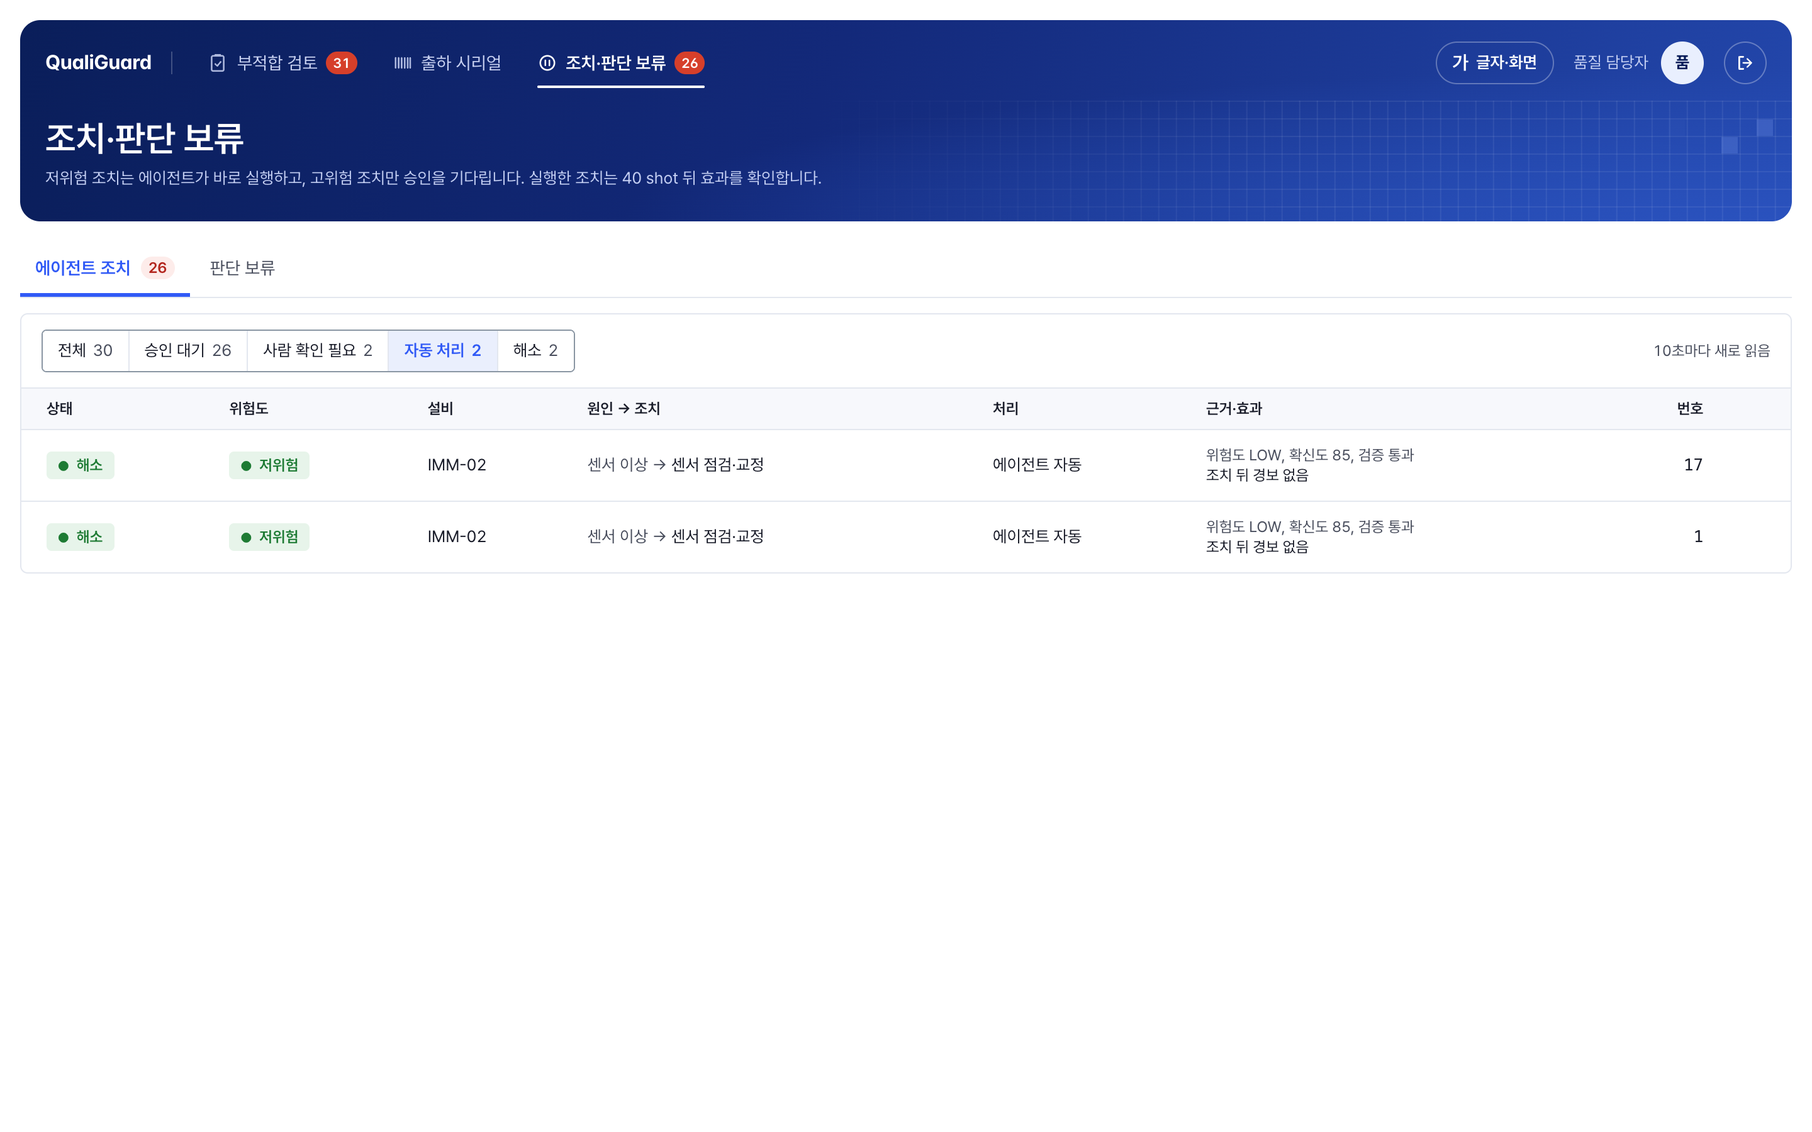
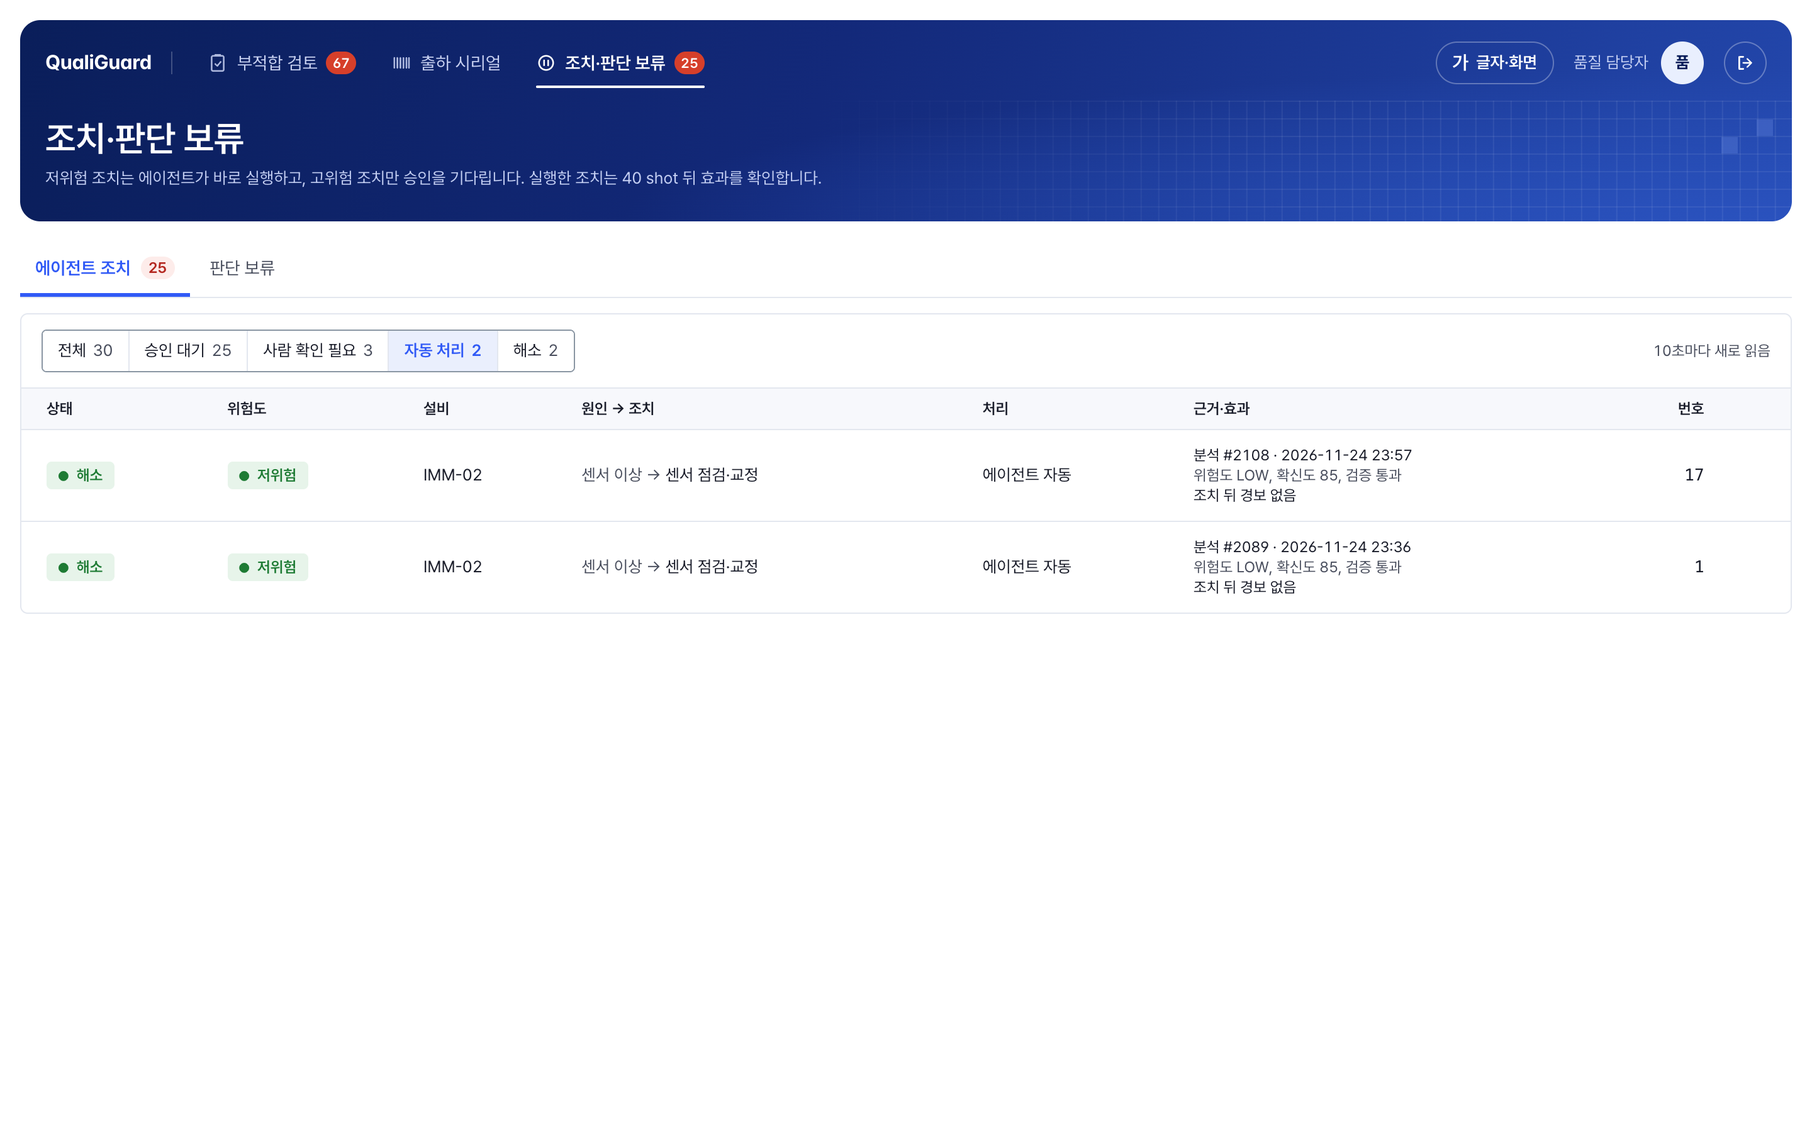
fix: 효과 없음 뒤 재분석 기준을 최근 shot 으로 + F3 재실행 결과 (캡처 4장) (#108)
* fix: 효과 없음 뒤 재분석 기준을 가장 최근에 들어온 shot 으로 (shot 번호 재시작)

F3 맥 재실행(11-25)에서 조치 19의 재분석 #2367 이 as_of_shot 2100(앞 실행의
MAX(shot_no))을 기준으로 해 조용한 옛 구간을 보고 OBSERVE → ESCALATED 로 끝났다.
#103 이 효과 확인에서 고친 것과 같은 문제.

- IncidentAnalyzer.prepareFollowUp: 재분석(excludedCause)이면 관찰 기준 시각 뒤
  shot 중 created_at 이 가장 늦은 것을 기준으로, 지난 shot 수도 시각으로 셈
- latestShot(MAX(shot_no)) 삭제
- 컨테이너 시험: 앞 실행 1~100, 새 실행 1~50 → 기준 shot 50, 40 shot 지남

Claude-Session: https://claude.ai/code/session_01SJdujeYsK7WznWMSwKKP1C

* docs(demo): F3 맥 재실행 — 승인 대기 묶기, ESCALATED 화면, 결과 요약

- main(#104·#107) + PR #105 로 재실행: 효과 없음 → 재분석 → 담당자 확인(ESCALATED) 루프, 같은 조치 묶기 확인
- 캡처 01~03 교체, 04-escalated.png 추가
- eval/overnight-1124/f3-rerun-1125.md: 단계별 관찰, 건수, 남은 한계(재분석 기준 shot 이 이전 실행 것 등)

* docs: F3 재실행 결과·캡처 4장, 문제 4(재분석 기준 shot) 기록

Claude-Session: https://claude.ai/code/session_01SJdujeYsK7WznWMSwKKP1C

---------

diff --git a/qms-app/src/main/java/com/qualiguard/qms/agent/IncidentAnalyzer.java b/qms-app/src/main/java/com/qualiguard/qms/agent/IncidentAnalyzer.java
@@ -331,20 +331,42 @@ public class IncidentAnalyzer {
         }
         String equipmentId = (String) parent.get("equipment_id");
         long baseShot = ((Number) parent.get("base_shot")).longValue();
-        long target = asOfShot != null ? asOfShot
-                : excludedCause != null ? latestShot(equipmentId) : baseShot + props.recheckShots();
-        if (target <= baseShot) {
-            throw new IllegalArgumentException("재확인 shot 은 관찰 기준 shot(" + baseShot + ")보다 뒤여야 합니다");
+        long target;
+        String asOf;
+        Long shotsSince = null;
+        if (asOfShot == null && excludedCause != null) {
+            // 조치 효과가 없을 때의 재분석: '지금' 시점 = 가장 최근에 들어온 shot.
+            // shot 번호는 시뮬레이터를 다시 돌리면 1부터 다시 시작하므로 MAX(shot_no) 를 쓰면 이전 실행의
+            // 큰 번호(이미 지난 구간)를 고르게 된다. 들어온 순서(created_at)로 고르고, 시각으로 앞뒤를 확인한다.
+            List<Map<String, Object>> latest = jdbc.queryForList("""
+                    SELECT TOP 1 shot_no, CONVERT(VARCHAR(33), shot_ts, 127) AS ts FROM dbo.process_shot
+                    WHERE equipment_id = ? AND shot_ts > CAST(? AS DATETIMEOFFSET(3))
+                    ORDER BY created_at DESC, shot_id DESC
+                    """, equipmentId, parent.get("base_ts"));
+            if (latest.isEmpty()) {
+                throw new IllegalStateException(equipmentId + " 의 관찰 기준 시각 뒤 shot 데이터가 아직 없습니다");
+            }
+            target = ((Number) latest.get(0).get("shot_no")).longValue();
+            asOf = (String) latest.get(0).get("ts");
+            shotsSince = jdbc.queryForObject("""
+                    SELECT COUNT_BIG(*) FROM dbo.process_shot
+                    WHERE equipment_id = ? AND shot_ts > CAST(? AS DATETIMEOFFSET(3)) AND shot_ts <= CAST(? AS DATETIMEOFFSET(3))
+                    """, Long.class, equipmentId, parent.get("base_ts"), asOf);
+        } else {
+            target = asOfShot != null ? asOfShot : baseShot + props.recheckShots();
+            if (target <= baseShot) {
+                throw new IllegalArgumentException("재확인 shot 은 관찰 기준 shot(" + baseShot + ")보다 뒤여야 합니다");
+            }
+            List<String> shotTs = jdbc.queryForList("""
+                    SELECT TOP 1 CONVERT(VARCHAR(33), shot_ts, 127) FROM dbo.process_shot
+                    WHERE equipment_id = ? AND shot_no = ? AND shot_ts > CAST(? AS DATETIMEOFFSET(3))
+                    ORDER BY shot_ts
+                    """, String.class, equipmentId, target, parent.get("base_ts"));
+            if (shotTs.isEmpty()) {
+                throw new IllegalStateException(equipmentId + " shot " + target + " 데이터가 아직 없습니다");
+            }
+            asOf = shotTs.get(0);
         }
-        List<String> shotTs = jdbc.queryForList("""
-                SELECT TOP 1 CONVERT(VARCHAR(33), shot_ts, 127) FROM dbo.process_shot
-                WHERE equipment_id = ? AND shot_no = ? AND shot_ts > CAST(? AS DATETIMEOFFSET(3))
-                ORDER BY shot_ts
-                """, String.class, equipmentId, target, parent.get("base_ts"));
-        if (shotTs.isEmpty()) {
-            throw new IllegalStateException(equipmentId + " shot " + target + " 데이터가 아직 없습니다");
-        }
-        String asOf = shotTs.get(0);
 
         String ids = (String) parent.get("anomaly_ids");
         List<String> anomalyIds = ids == null || ids.isBlank() ? List.of() : List.of(ids.split(","));
@@ -358,7 +380,7 @@ public class IncidentAnalyzer {
         Map<String, Object> info = new LinkedHashMap<>();
         info.put("observedAtShot", baseShot);
         info.put("currentShot", target);
-        info.put("shotsSinceObservation", target - baseShot);
+        info.put("shotsSinceObservation", shotsSince != null ? shotsSince : target - baseShot);
         info.put("recheckCount", depth + 1);
         if (excludedCause != null) {
             info.put("excludedCause", excludedCause);
@@ -366,12 +388,6 @@ public class IncidentAnalyzer {
         return new Job("RECHECK", equipmentId, (String) parent.get("seed_anomaly_id"),
                 (String) parent.get("seed_ts"), observedAlarms, anomalyIds, false, null, asOf, target, asOf,
                 parentAnalysisId, (String) parent.get("run_tag"), info);
-    }
-
-    private long latestShot(String equipmentId) {
-        Long max = jdbc.queryForObject("SELECT MAX(shot_no) FROM dbo.process_shot WHERE equipment_id = ?", Long.class,
-                equipmentId);
-        return max == null ? 0 : max;
     }
 
     /**

diff --git a/qms-app/src/test/java/com/qualiguard/qms/db/MssqlInitScriptsContainerTest.java b/qms-app/src/test/java/com/qualiguard/qms/db/MssqlInitScriptsContainerTest.java
@@ -616,6 +616,65 @@ class MssqlInitScriptsContainerTest {
         }
     }
 
+    @Test
+    void 효과_없음_뒤_재분석은_shot_번호가_아니라_가장_최근에_들어온_shot_을_기준으로_한다() throws Exception {
+        try (Connection c = connect(); Statement st = c.createStatement()) {
+            st.execute("""
+                    INSERT INTO dbo.equipment (equipment_id, line_id, equipment_name, model, product_name, install_date)
+                    VALUES ('IT-EQ-RT', 'LINE1', N'시험 설비', N'시험', N'시험', '2020-01-01');
+                    """);
+            try (PreparedStatement ps = c.prepareStatement("""
+                    INSERT INTO dbo.process_shot (message_id, line_id, equipment_id, shot_no, shot_ts, barrel_temp,
+                                                  inspection_result, created_at)
+                    VALUES (?, 'LINE1', 'IT-EQ-RT', ?, CAST(? AS DATETIMEOFFSET(3)), ?, 'OK', CAST(? AS DATETIMEOFFSET(3)))
+                    """)) {
+                for (int shot = 1; shot <= 100; shot++) {   // 앞 실행: 1~100 (번호가 더 큼)
+                    retryShot(ps, "it-rt-a-" + shot, shot, "2026-11-24T10:00:00+09:00", shot);
+                }
+                for (int shot = 1; shot <= 50; shot++) {    // 조치 뒤 새 실행: 번호가 다시 1부터
+                    retryShot(ps, "it-rt-b-" + shot, shot, "2026-11-24T11:00:00+09:00", shot);
+                }
+            }
+            st.execute("""
+                    INSERT INTO dbo.anomaly_event (anomaly_id, line_id, equipment_id, shot_no, detected_at, rule_code,
+                        rule_name, sensor_key, sensor_name, observed, message, evidence_json)
+                    VALUES ('it-rt-seed', 'LINE1', 'IT-EQ-RT', 10, '2026-11-24T11:00:10+09:00', 'XBAR', N'평균',
+                            'barrelTemp', N'실린더', 1, N'새 실행 경보', '{}')
+                    """);
+            int parent;
+            try (ResultSet rs = st.executeQuery("""
+                    INSERT INTO dbo.agent_analysis (equipment_id, seed_anomaly_id, anomaly_ids, decision, trigger_type,
+                                                    as_of, as_of_shot)
+                    OUTPUT INSERTED.analysis_id
+                    VALUES ('IT-EQ-RT', 'it-rt-seed', 'it-rt-seed', 'NCR_DRAFT', 'ALARM', '2026-11-24T11:00:10+09:00', 10)
+                    """)) {
+                rs.next();
+                parent = rs.getInt(1);
+            }
+            var jdbc = new JdbcTemplate(new SingleConnectionDataSource(c, true));
+            var analyzer = new IncidentAnalyzer(jdbc, JsonMapper.builder().build(), null,
+                    new com.qualiguard.qms.agent.AgentProperties(false, 5000, 100, 30, 60, 40, 3, 1), null, "test", null);
+
+            // 예전(MAX(shot_no) = 100)에는 앞 실행의 shot 100 을 찾다가 '데이터가 아직 없다'로 실패하거나 지난 구간을 봤다
+            IncidentAnalyzer.Job job = analyzer.prepareRetry(parent, "HEATER_DEGRADATION");
+            assertThat(job.asOfShot()).as("새 실행의 마지막 shot").isEqualTo(50L);
+            assertThat(job.asOf()).startsWith("2026-11-24T02:00:50");
+            assertThat(job.recheckInfo()).containsEntry("excludedCause", "HEATER_DEGRADATION")
+                    .containsEntry("shotsSinceObservation", 40L);
+        }
+    }
+
+    private static void retryShot(PreparedStatement ps, String id, int shot, String start, int sec) throws SQLException {
+        String ts = java.time.OffsetDateTime.parse(start).plusSeconds(sec)
+                .format(java.time.format.DateTimeFormatter.ofPattern("yyyy-MM-dd'T'HH:mm:ssXXX"));
+        ps.setString(1, id);
+        ps.setLong(2, shot);
+        ps.setString(3, ts);
+        ps.setDouble(4, 225.0);
+        ps.setString(5, ts);
+        ps.executeUpdate();
+    }
+
     private static void shotRow(PreparedStatement ps, String id, int shot, double barrel, String start, int sec)
             throws SQLException {
         ps.setString(1, id);

diff --git a/eval/overnight-1124/f3-rerun-1125.md b/eval/overnight-1124/f3-rerun-1125.md
@@ -1,0 +1,61 @@
+# F3 자동 조치 맥 재실행 (2026-11-25 12:49~13:06 KST)
+
+코드: `fix/escalate-after-observe-retry` f6097bb = main(#104 묶기·근거 표시·중복 방지, #106, #107 확신도 80·ML skip) + PR #105(재분석이 다음 조치를 못 정하면 사람에게).
+모델 gemini-3.8-flash, 프롬프트 analysis-v2@941e709b. 로그: 맥 `~/f3-run-1125.log`.
+
+## 준비
+
+| 항목 | 결과 |
+|---|---|
+| 관련 시험 | ActionLoopTest 10 + AgentPipelineTest 13 = 23 통과 (PR #105 충돌 해결 뒤 전체 252 통과) |
+| `docker compose up mssql-init` | exit 0, `25_action_dedupe.sql` 적용 (agent_action 에 repeat_count·last_analysis_id·confidence·verified) |
+| 시작 전 미처리(NEW) 경보 | 2,009건 (가장 오래된 것 11/24 14:19). 기록만 하고 건드리지 않음 |
+| 앱 | `QG_AGENT_AUTO_ENABLED=true QG_AGENT_ACTION_ENABLED=true QG_AGENT_ML_TRIAGE_MODE=off` → 곧바로 `토큰 예산 소진: 10,483,166 / 1,000,000` (밤샘 평가가 오늘 0시 이후라 오늘 몫으로 셈) → `QG_AGENT_BUDGET_DAILY_TOKENS=0` 을 더해 재시작 |
+| 시뮬레이터 | 옵션 없이 (`interval_sec` 0.5, 설비당 2000 shot, 약 17분) |
+
+## 단계별 관찰
+
+1. **어젯밤 조치가 ESCALATED 로 넘어감 (PR #105)**: 앱이 켜지자 효과 없음(NOT_RESOLVED) 상태로 남아 있던 조치 20(히터)·27(냉각수)이 `[조치] 조치 20 재분석 뒤 다음 조치 없음 (OBSERVE) → 사람에게 넘김` 으로 '사람 확인 필요'가 됨. 근거 칸: "재분석(분석 #2124)이 OBSERVE/UNKNOWN 로 끝나 다음 조치를 정하지 못함 → 담당자 확인 필요. 앞 결과: 조치 뒤에도 경보 13건 / 되돌리기: …"
+2. **새로 승인한 조치의 전체 루프**: 히터 조치 19를 리뷰어로 승인(12:52:48) → 40 shot 뒤 NOT_RESOLVED "조치 뒤에도 경보 1건"(12:55:38) → 그 원인을 빼고 재분석 #2367 → OBSERVE/UNKNOWN(확신도 45) → 약 60초 뒤 ESCALATED(12:57:51). 승인 → 효과 없음 → 재분석 → 사람에게 넘김까지 한 번에 확인.
+3. **승인 대기 묶기 (#104)**: 이번 실행의 경보 두 개를 직접 분석시킴
+   - IMM-01 P_CHART shot 1495 → NCR_DRAFT / CHECK_RING_WEAR 92, AI-2026-0156 → `이미 진행 중 (조치 7) — 같은 판단으로 묶음`
+   - IMM-02 shot 1381 경보 4건 → NCR_DRAFT / COOLING_ISSUE 92, AI-2026-0157 → `이미 진행 중 (조치 5) — 같은 판단으로 묶음`
+   - 화면: 그 행에 "확신도 92 · 검증 통과 · 분석 #2097 … / 같은 판단 1번 더 · 마지막 분석 #2373 · 13:04" 표시. 새 행은 생기지 않음.
+4. **확신도 80 기준 (#107)**: 이번 실행에서는 LOW 조치(센서 교정)가 나오지 않아 화면으로는 못 봄. 시험 `저위험_조치라도_확신도_80_미만이면_승인_대기` 로만 확인.
+5. 자동 분석은 오래된 평가 경보부터 처리해 대부분 OBSERVE(6건)였고, 1건은 LLM 응답 시간 초과(90초)로 FAILED → 경보 NEW 로 복귀.
+
+## 숫자 (끝난 뒤, 13:06)
+
+| status | mode | 건수 | SUM(repeat_count) |
+|---|---|---|---|
+| WAITING_APPROVAL | APPROVAL | 25 | 2 |
+| ESCALATED | APPROVAL | 3 (19·20·27) | 0 |
+| RESOLVED | AUTO | 2 | 0 |
+
+- 최근 2시간에 바뀐 행: ESCALATED 3, 묶인 승인 대기 2 (repeat 2)
+- 이번 실행 분석 9건: OBSERVE 6 · NCR_DRAFT 2 · FAILED 1
+- 끝난 뒤 미처리 경보 2,085건. 앱(8080)·시뮬레이터 꺼짐 확인
+
+## 캡처 (`docs/demo/f3/`, 1440×900 ×2)
+
+- `01-auto.png`: 자동 처리 2건(센서 교정, 저위험, "위험도 LOW, 확신도 85, 검증 통과 / 조치 뒤 경보 없음", 해소)
+- `02-approval.png` (전체 길이): 승인 대기 25건. 아래쪽 7번(체크 링)·5번(냉각수) 행에 확신도·검증·"같은 판단 1번 더" 표시, 다른 행은 #104 이전에 생긴 것이라 표시 없음
+- `03-effect.png`: 해소 2건
+- `04-escalated.png`: 사람 확인 필요 3건(19·20·27), 재분석 번호·앞 결과·되돌리기 안내
+
+## 어젯밤 대비 달라진 점
+
+| | 11/24 밤 | 11/25 재실행 |
+|---|---|---|
+| 효과 없음 뒤 재분석이 관찰로 끝남 | NOT_RESOLVED 로 멈춤 | ESCALATED '담당자 확인 필요' (#105) |
+| 같은 설비·같은 조치 | 분석마다 새 승인 대기 행 (30분에 26건) | 기존 행에 묶임, "같은 판단 N번 더" (#104) |
+| 승인 대기 행의 근거 | 정책 이유만 | 확신도·검증·분석 번호·시각 (#104, 새로 생기거나 묶인 행) |
+| 메뉴 배지 | 화면 열 때 한 번 | 표와 함께 갱신 (#104) — 이번 캡처에서 배지 25 = 승인 대기 25 |
+
+## 남은 한계
+
+1. **효과 없음 뒤 재분석의 기준 shot 이 이전 실행 것**: `IncidentAnalyzer.latestShot()` 이 `MAX(shot_no)` 를 써서, 시뮬레이터를 다시 돌리면 이전 실행의 큰 번호(11/24 밤 `--shots 2100` 의 2100)를 기준으로 재분석함. 조치 19의 재분석 #2367 도 as_of_shot 2100(현재 실행은 약 1700). 그래서 재분석이 조용한 옛 구간을 보고 OBSERVE 로 끝나 바로 ESCALATED 가 되는 경향. PR #103 이 효과 확인에서 고친 것과 같은 문제(실행 시각 기준으로 바꿔야 함).
+2. **#104 이전 승인 대기 행은 그대로**: 묶기는 새 판단부터라 옛 25건은 남고, 새 판단은 가장 오래된 대기 행(7·5)에 붙음. 화면 위쪽(최신)이 아니라 아래쪽에 묶인 행이 있어 찾기 어려움 → 마지막 판단 시각순 정렬이나 옛 행 정리 필요.
+3. **밀린 경보 처리 순서**: 자동 분석이 가장 오래된 NEW 경보(평가 재생 데이터 포함)부터 처리해 지금 실행의 경보는 뒤로 밀림. 평가 데이터 경보를 자동 분석 대상에서 빼는 규칙이 없음.
+4. **토큰 예산이 평가와 운영을 같이 셈**: 밤샘 평가가 오늘 예산(100만)을 10배 넘게 써서 자동 분석이 바로 멈춤. 평가 재생(run_tag 있음) 토큰을 예산에서 빼는 것을 검토할 만함.
+5. 확신도 80 기준은 실행 화면으로는 확인 못 함(LOW 조치가 이번에 안 나옴).

diff --git a/docs/troubleshooting/11-action-loop-real-run.md b/docs/troubleshooting/11-action-loop-real-run.md
@@ -5,12 +5,14 @@
 
 ## 화면
 
-| 자동 실행된 조치 | 승인 대기 조치 | 효과 확인 결과 |
-|---|---|---|
-| ![자동 실행](../demo/f3/01-auto.png) | ![승인 대기](../demo/f3/02-approval.png) | ![효과 확인](../demo/f3/03-effect.png) |
-| 센서 재보정(LOW)이 확신도 기준을 넘어 자동 실행되고 해소(RESOLVED) | 히터·냉각 조치는 품질 영향 사건이라 승인 대기 | 승인한 조치 2건이 미해소(NOT_RESOLVED) → 재분석 |
+캡처는 11-25 재실행(#104·#105·#107 반영) 화면입니다.
 
-최종 상태: 조치 30건 (해소 2, 미해소 2, 승인 대기 26).
+| 자동 실행된 조치 | 승인 대기 조치 | 효과 확인(해소) | 담당자 확인 |
+|---|---|---|---|
+| ![자동 실행](../demo/f3/01-auto.png) | ![승인 대기](../demo/f3/02-approval.png) | ![효과 확인](../demo/f3/03-effect.png) | ![담당자 확인](../demo/f3/04-escalated.png) |
+| 센서 재보정(LOW)이 확신도 85·검증 통과로 자동 실행되고 해소 | 히터·냉각·체크 링은 승인 대기. 같은 조치는 한 줄에 "같은 판단 N번 더" | 해소 2건 | 효과 없음 → 재분석이 관찰로 끝남 → ESCALATED 3건 |
+
+11-24 밤 첫 실행 최종 상태: 조치 30건 (해소 2, 미해소 2, 승인 대기 26).
 
 ## 문제 1. 효과 확인이 영원히 오지 않음 → PR #103
 
@@ -31,8 +33,26 @@
 - **원인**: 담당자 확인으로 넘기는 경로가 "다음 조치도 효과 없음" 하나뿐이었다.
 - **조치**: 재분석이 끝난 지 60초가 지나도 다음 조치가 없으면 ESCALATED 로 바꾸고 "재분석(분석 #N)이 관찰로 끝나 다음 조치를 정하지 못함 → 담당자 확인 필요" 를 남긴다.
 
+## 재실행 (2026-11-25, #104·#105·#107 반영)
+
+결과: [eval/overnight-1124/f3-rerun-1125.md](../../eval/overnight-1124/f3-rerun-1125.md)
+
+- 어젯밤 미해소로 멈췄던 조치 2건이 ESCALATED 로 넘어갔다(#105).
+- 새로 승인한 히터 조치 19 는 승인 → 40 shot 뒤 효과 없음 → 재분석 → 관찰 → 60초 뒤 ESCALATED 까지 한 번에 확인했다.
+- 같은 고장의 새 판단 2건은 새 행 없이 기존 조치에 묶였다(#104).
+
+## 문제 4. 재분석이 이전 실행의 shot 을 봄 → 이 문서와 같은 PR
+
+- **현상**: 조치 19 의 재분석 #2367 이 기준 shot 2100 으로 분석했다. 지금 실행은 약 1700 이었다. 조용한 옛 구간을 보고 관찰로 끝나 곧바로 ESCALATED 가 됐다.
+- **원인**: 재분석 기준을 `MAX(shot_no)` 로 골랐다. 문제 1과 같은 shot 번호 재시작 문제다.
+- **조치**: 관찰 기준 시각 뒤에 들어온 shot 중 가장 늦게 들어온 것(`created_at`)을 기준으로 삼는다. 지난 shot 수도 시각으로 센다.
+
 ## 남은 것
 
 - 해소(RESOLVED) 판정의 근거가 약하다. 조치 앞뒤 평균만 비교하므로, 고장이 저절로 사라지는 시뮬레이터 구간에서는 조치와 상관없이 해소로 나올 수 있다.
 - 오래 돌리면 분석 몇 건이 DB 교착(deadlock)으로 FAILED 가 됐다. 원인은 아직 보지 않았다.
-- 실행이 끝났을 때 처리되지 않은 경보가 1,235건 남았다. 하루 토큰 예산과 한 번에 하나씩 분석하는 구조 때문이며, 실제 라인에서는 사건 묶기·ML 먼저 판단으로 줄여야 한다.
+- #104 이전에 생긴 승인 대기 25건은 묶이지 않은 채 남고, 새 판단은 가장 오래된 행에 붙어 화면 아래쪽에 있다. 마지막 판단 시각순 정렬이 필요하다.
+- 자동 분석이 가장 오래된 NEW 경보(평가 재생 데이터 포함)부터 처리해, 지금 실행의 경보가 뒤로 밀린다.
+- 하루 토큰 예산이 평가 재생 토큰까지 함께 센다. 밤샘 평가가 11-25 예산을 10배 넘게 써서 자동 분석이 바로 멈췄다.
+- 확신도 80 기준(#107)은 재실행에서 LOW 조치가 나오지 않아 시험으로만 확인했다.
+- 실행이 끝났을 때 처리되지 않은 경보가 1,235건 남았다(재실행 뒤 2,085건). 하루 토큰 예산과 한 번에 하나씩 분석하는 구조 때문이며, 실제 라인에서는 사건 묶기·ML 먼저 판단으로 줄여야 한다.
